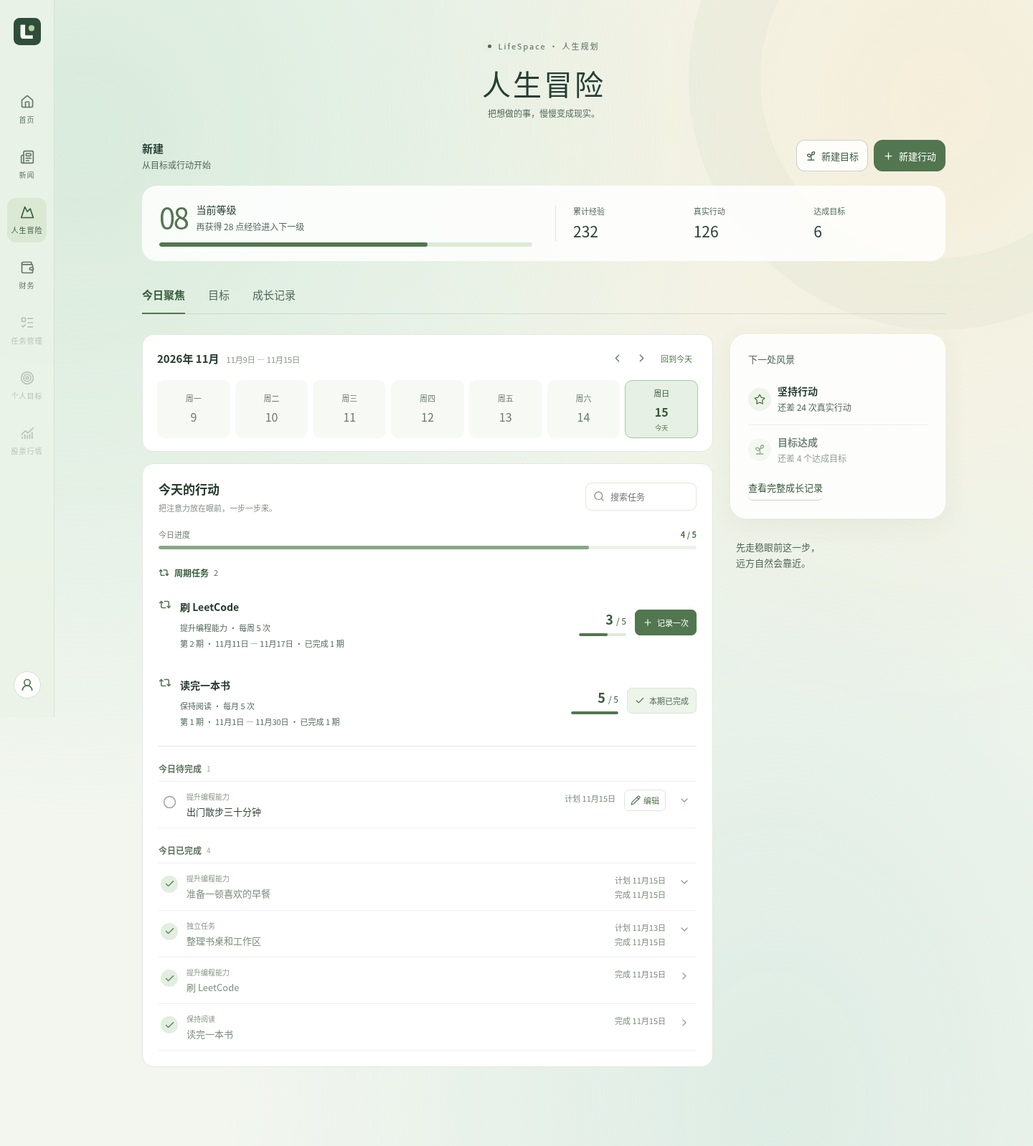
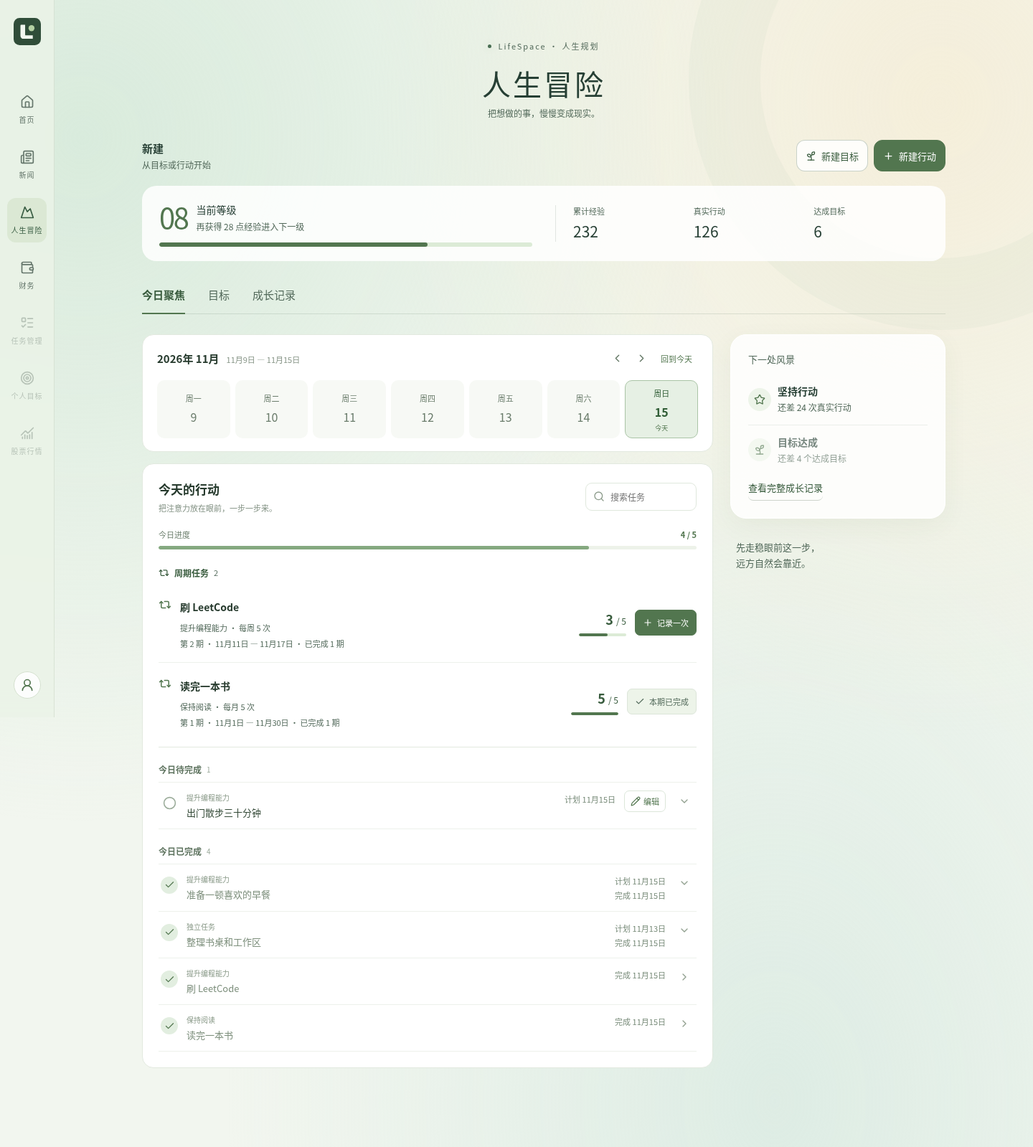
fix(adventure): keep recurring pagination reachable after list shrink (#200)

diff --git a/tests/browser/adventure-recurring-review.spec.ts b/tests/browser/adventure-recurring-review.spec.ts
@@ -1,0 +1,92 @@
+import { test, expect } from './authenticated-test'
+import { workspace, parent, future, makeChild, uuid, recurringFixture } from './adventure-recurring-fixture'
+
+const elevenChildren = () => Array.from({ length: 11 }, (_, index) => makeChild(600 + index, parent, workspace.today, `10:${String(index).padStart(2, '0')}`, true))
+const withElevenActions = () => ({ ...workspace, tasks: [], totalTasks: 0, taskProgress: { completed: 11, total: 11, ratio: 1 }, todayTaskProgress: { completed: 11, total: 11, ratio: 1 } })
+const withElevenChildren = () => ({ ...parent, requiredCount: 20, effectiveChildren: 11, currentPeriod: { ...parent.currentPeriod!, completed: 11, required: 20, ratio: .55, satisfied: false } })
+
+test('第2页撤销第11项后保留行动上一页入口，不必切换日期', async ({ page, context }) => {
+  const children = elevenChildren(), current = withElevenChildren(), data = withElevenActions()
+  const fixture = await recurringFixture(context, { workspace: data, parents: [current], children })
+  await page.goto('/adventure'); await page.getByRole('button', { name: '下一页任务', exact: true }).click()
+  await expect(page.locator('.today-task-record')).toHaveCount(1)
+  fixture.saved({ workspace: { ...data, version: 21, taskProgress: { completed: 10, total: 10, ratio: 1 }, todayTaskProgress: { completed: 10, total: 10, ratio: 1 } },
+    parents: [{ ...current, effectiveChildren: 10, currentPeriod: { ...current.currentPeriod, completed: 10, ratio: .5 } }], children: children.slice(0, 10) })
+  await page.getByRole('button', { name: '取消完成', exact: true }).click()
+  await expect(page.getByRole('group', { name: '今日任务进度', exact: true })).toHaveText('今日进度10 / 10')
+  await expect(page.locator('.today-task-record')).toHaveCount(0)
+  await expect(page.getByRole('button', { name: '上一页任务', exact: true })).toBeEnabled()
+  await expect(page.getByRole('button', { name: '下一页任务', exact: true })).toBeDisabled()
+  await page.getByRole('button', { name: '上一页任务', exact: true }).click()
+  await expect(page.locator('.today-task-record')).toHaveCount(10)
+  await expect(page.getByRole('button', { name: `选择日期 ${workspace.today}`, exact: true })).toHaveAttribute('aria-pressed', 'true')
+  expect(fixture.envelopes).toHaveLength(1)
+})
+
+test('第2页删除第11个未开始父后保留父分页返回入口', async ({ page, context }) => {
+  const parents = Array.from({ length: 11 }, (_, index) => ({ ...future, id: uuid(700 + index), title: `未来周期${index}` }))
+  const fixture = await recurringFixture(context, { workspace, parents, children: [] })
+  await page.goto('/adventure')
+  for (let index = 0; index < 3; index++) await page.getByRole('button', { name: '下一周', exact: true }).click()
+  await page.getByRole('button', { name: '选择日期 2026-12-01', exact: true }).click()
+  await page.getByRole('button', { name: '下一页周期任务', exact: true }).click()
+  await expect(page.getByRole('button', { name: '未来周期10', exact: true })).toBeVisible()
+  await page.getByRole('button', { name: '删除', exact: true }).click()
+  fixture.saved({ workspace: { ...workspace, version: 21 }, parents: parents.slice(0, 10), children: [] })
+  await page.getByRole('dialog').getByRole('button', { name: '确认删除', exact: true }).click()
+  await expect(page.getByRole('dialog')).toHaveCount(0)
+  await expect(page.locator('.recurring-row')).toHaveCount(0)
+  await expect(page.getByRole('button', { name: '上一页周期任务', exact: true })).toBeEnabled()
+  await expect(page.getByRole('button', { name: '下一页周期任务', exact: true })).toBeDisabled()
+  await page.getByRole('button', { name: '上一页周期任务', exact: true }).click()
+  await expect(page.locator('.recurring-row')).toHaveCount(10)
+  await expect(page.getByRole('button', { name: '选择日期 2026-12-01', exact: true })).toHaveAttribute('aria-pressed', 'true')
+  expect(fixture.envelopes).toHaveLength(1)
+})
+
+test('关联子第2页在其他操作缩减总量后仍可返回第1页', async ({ page, context }) => {
+  const children = elevenChildren(), current = withElevenChildren()
+  const fixture = await recurringFixture(context, { workspace, parents: [current], children })
+  await page.goto('/adventure'); await page.getByRole('button', { name: parent.title, exact: true }).click()
+  await page.getByRole('dialog').getByRole('button', { name: '下一页子任务', exact: true }).click()
+  await expect(page.getByRole('dialog').getByRole('button', { name: /查看子任务/ })).toHaveCount(1)
+  fixture.saved({ workspace: { ...workspace, version: 21 }, parents: [{ ...current, effectiveChildren: 10, currentPeriod: { ...current.currentPeriod, completed: 10, ratio: .5 } }], children: children.slice(0, 10) })
+  fixture.fail(409, 'VERSION_CONFLICT')
+  await page.getByRole('dialog').getByRole('button', { name: '记录一次', exact: true }).click()
+  await expect(page.getByRole('dialog').getByText('10 项', { exact: true })).toBeVisible()
+  await expect(page.getByRole('dialog').getByRole('button', { name: /查看子任务/ })).toHaveCount(0)
+  await expect(page.getByRole('dialog').getByRole('button', { name: '上一页子任务', exact: true })).toBeEnabled()
+  await expect(page.getByRole('dialog').getByRole('button', { name: '下一页子任务', exact: true })).toBeDisabled()
+  await page.getByRole('dialog').getByRole('button', { name: '上一页子任务', exact: true }).click()
+  await expect(page.getByRole('dialog').getByRole('button', { name: /查看子任务/ })).toHaveCount(10)
+  expect(fixture.envelopes).toHaveLength(1)
+})
+
+for (const width of [1440, 390]) test(`${width}px 周期相邻行保留approved-v1分隔线`, async ({ page, context }) => {
+  await recurringFixture(context)
+  await page.setViewportSize({ width, height: width === 1440 ? 1000 : 844 })
+  await page.goto('/adventure')
+  const second = page.locator('.recurring-section .recurring-row').nth(1)
+  await expect(second).toHaveCSS('border-top-width', '1px')
+  await expect(second).toHaveCSS('border-top-style', 'solid')
+  await expect(second).toHaveCSS('border-top-color', 'rgb(237, 241, 235)')
+})
+
+test('目标候选第2页因总数缩减为空时仍可返回第1页', async ({ page, context }) => {
+  await recurringFixture(context)
+  let shrunk = false
+  const goals = Array.from({ length: 20 }, (_, index) => ({ ...workspace.goals[0], id: uuid(1800 + index), title: `候选目标${index}` }))
+  await context.route(/\/api\/adventure\?/, route => {
+    const requestedPage = Number(new URL(route.request().url()).searchParams.get('page') ?? 1)
+    if (requestedPage === 2) shrunk = true
+    return route.fulfill({ json: { ...workspace, page: requestedPage, goals: requestedPage === 2 ? [] : goals, totalGoals: shrunk ? 20 : 21 } })
+  })
+  await page.goto('/adventure'); await page.getByRole('button', { name: '新建行动', exact: true }).click()
+  const dialog = page.getByRole('dialog')
+  await dialog.getByRole('button', { name: '下一页目标', exact: true }).click()
+  await expect(dialog.getByText('目标候选 · 第 2 页', { exact: true })).toBeVisible()
+  await expect(dialog.getByRole('button', { name: '上一页目标', exact: true })).toBeEnabled()
+  await expect(dialog.getByRole('button', { name: '下一页目标', exact: true })).toBeDisabled()
+  await dialog.getByRole('button', { name: '上一页目标', exact: true }).click()
+  await expect(dialog.getByRole('combobox', { name: '任务归属', exact: true }).locator('option')).toHaveCount(21)
+})

diff --git a/src/adventure/PrototypeTasks.tsx b/src/adventure/PrototypeTasks.tsx
@@ -91,7 +91,7 @@ export function PrototypeTasks({ data, blocked, reload, openTask, toggleTask, ed
       {result && <>
         {isToday && <div className="today-progress"><div role="group" aria-label="今日任务进度"><span>今日进度</span><strong>{result.progress.completed} / {result.progress.total}</strong></div>{result.progress.ratio === null ? <small>暂无可统计任务</small> : <Progress value={result.progress.ratio} label="今日任务进度" />}</div>}
         {recurring.value && <RecurringTasks list={recurring.value.parents} blocked={rowBlocked} open={openRecurring} record={recordRecurring} changePage={setParentPage} />}
-        {filtered.length === 0 ? recurring.value?.parents.parents.length ? null : <p className="today-empty">{term ? '没有找到匹配的行动。' : date < data.today ? '这一天没有完成记录。' : '这一天没有待完成的任务。'}</p> : groups.filter(group => group.tasks.length).map(group => <section className="today-task-group" key={group.title}><h3>{group.title}<span>{recurringEnabled && (recurring.value?.actions.total ?? 0) > 10 ? `本页 ${group.total}` : group.total}</span></h3><div className="today-task-list">{group.tasks.map(task => {
+        {filtered.length === 0 ? recurring.value?.parents.parents.length ? null : <p className="today-empty">{activePage > 1 ? '本页暂无任务，请返回上一页。' : term ? '没有找到匹配的行动。' : date < data.today ? '这一天没有完成记录。' : '这一天没有待完成的任务。'}</p> : groups.filter(group => group.tasks.length).map(group => <section className="today-task-group" key={group.title}><h3>{group.title}<span>{recurringEnabled && (recurring.value?.actions.total ?? 0) > 10 ? `本页 ${group.total}` : group.total}</span></h3><div className="today-task-list">{group.tasks.map(task => {
           if (task.kind === 'recurring_child') {
             const child = task
             const snapshot = child.snapshot
@@ -119,7 +119,7 @@ export function PrototypeTasks({ data, blocked, reload, openTask, toggleTask, ed
             {open && <div className="today-task-details" id={detailsId}><p>{task.description || '这次行动没有填写说明。'}</p></div>}
           </article>
         })}</div></section>)}
-        {(recurringEnabled ? (recurring.value?.actions.total ?? 0) > 10 : filtered.length > 20) && <footer className="planning-pagination"><small>共 {recurringEnabled ? recurring.value?.actions.total : filtered.length} 项 · 第 {activePage} 页</small><div><button disabled={activePage <= 1} onClick={() => { preserveSpace(); setPage(activePage - 1) }}>上一页任务</button><button disabled={activePage >= pageCount} onClick={() => { preserveSpace(); setPage(activePage + 1) }}>下一页任务</button></div></footer>}
+        {(recurringEnabled ? (recurring.value?.actions.total ?? 0) > 10 || activePage > 1 : filtered.length > 20) && <footer className="planning-pagination"><small>共 {recurringEnabled ? recurring.value?.actions.total : filtered.length} 项 · 第 {activePage} 页</small><div><button disabled={activePage <= 1} onClick={() => { preserveSpace(); setPage(activePage - 1) }}>上一页任务</button><button disabled={activePage >= pageCount} onClick={() => { preserveSpace(); setPage(activePage + 1) }}>下一页任务</button></div></footer>}
       </>}
     </div>
   </section>

diff --git a/tests/browser/adventure-recurring-fixture.ts b/tests/browser/adventure-recurring-fixture.ts
@@ -63,9 +63,12 @@ export async function recurringFixture(context: BrowserContext, supplied = initi
       return route.fulfill({ json: { ...basis, ...body, pageSize: 10, total: parents.length, parents: parents.slice((body.page - 1) * 10, body.page * 10) } })
     }
     if (path === '/api/adventure/date-tasks/list') {
-      const tasks = [...state.workspace.tasks.filter(task => task.status === 'completed' ? task.completedOn === body.date : task.plannedOn === body.date).map(task => ({ ...task, kind: 'once' })), ...state.children.filter(child => child.status === 'completed' && child.snapshot.occurredOn === body.date)]
+      const tasks = [...state.workspace.tasks.filter(task => task.status === 'completed' ? task.completedOn === body.date
+        : task.status === 'pending' && body.date >= state.workspace.today && (body.date === state.workspace.today ? task.plannedOn <= body.date : task.plannedOn === body.date)).map(task => ({ ...task, kind: 'once' })), ...state.children.filter(child => child.status === 'completed' && child.snapshot.occurredOn === body.date)]
         .filter(task => `${'snapshot' in task ? `${task.snapshot.title} ${task.snapshot.description} ${task.snapshot.goalTitle}` : `${task.title} ${task.description} ${task.goalTitle}`}`.includes(body.search))
-      return route.fulfill({ json: { ...basis, ...body, pageSize: 10, total: tasks.length, tasks: tasks.slice((body.page - 1) * 10, body.page * 10), progress: state.workspace.todayTaskProgress } })
+      const completed = tasks.filter(task => task.status === 'completed').length
+      const progress = body.date === state.workspace.today && !body.search ? state.workspace.todayTaskProgress : { completed, total: tasks.length, ratio: tasks.length ? completed / tasks.length : null }
+      return route.fulfill({ json: { ...basis, ...body, pageSize: 10, total: tasks.length, tasks: tasks.slice((body.page - 1) * 10, body.page * 10), progress } })
     }
     if (path === '/api/adventure/preview') return route.fulfill({ json: { version: state.workspace.version, today: state.workspace.today, allowed: true, message: '请确认', operation: body.command.type, entityId: body.command.id, title: state.parents.find(parent => parent.id === body.command.id)?.title, requiresConfirmation: true, effectiveChildren: 3, completedPeriods: 1 } })
     if (path === '/api/adventure/commands') {

diff --git a/src/adventure/RecurringDialog.tsx b/src/adventure/RecurringDialog.tsx
@@ -115,7 +115,7 @@ function RecurringDetail({ view, workspace, blocked, action, confirmation, chang
       {children.total === 0 ? <p className="recurring-hint">暂无关联子任务</p> : <ul role="list">{children.children.map(child => <li key={child.id}><button type="button" className="recurring-child-link" disabled={blocked} onClick={() => change({ type: 'child', id: child.id, parentId: parent.id })} aria-label={`查看子任务 ${child.snapshot.title}，${recurringDate(child.snapshot.occurredOn)} ${recurringTime(child.snapshot.occurredAt)}，第 ${child.snapshot.periodNumber} 期`}>
         <ListTodo size={16} aria-hidden="true"/><span className="recurring-child-copy"><strong>{child.snapshot.title}</strong><small>{recurringDate(child.snapshot.occurredOn)} {recurringTime(child.snapshot.occurredAt)} · 第 {child.snapshot.periodNumber} 期</small></span><span className="recurring-child-status">已完成</span><ChevronRight size={16} aria-hidden="true"/>
       </button></li>)}</ul>}
-      {children.total > children.pageSize && <footer className="planning-pagination"><small>第 {children.page} 页</small><div><button type="button" disabled={blocked || page <= 1} onClick={() => setPage(value => value - 1)}>上一页子任务</button><button type="button" disabled={blocked || page * children.pageSize >= children.total} onClick={() => setPage(value => value + 1)}>下一页子任务</button></div></footer>}
+      {(children.total > children.pageSize || children.page > 1) && <footer className="planning-pagination"><small>第 {children.page} 页</small><div><button type="button" disabled={blocked || page <= 1} onClick={() => setPage(value => value - 1)}>上一页子任务</button><button type="button" disabled={blocked || page * children.pageSize >= children.total} onClick={() => setPage(value => value + 1)}>下一页子任务</button></div></footer>}
     </section>
   </div>
 }

diff --git a/src/adventure/RecurringTaskForm.tsx b/src/adventure/RecurringTaskForm.tsx
@@ -63,7 +63,7 @@ export function RecurringTaskForm({ parent, workspace, blocked, action, close }:
     </select></label>
     {!candidates && <p role="status">{candidateError || '正在读取任务归属…'}</p>}
     {candidateError && <button type="button" onClick={() => setAttempt(value => value + 1)}>重试任务归属</button>}
-    {candidates && candidates.totalGoals > candidates.pageSize && <div className="planning-pagination"><small>目标候选 · 第 {candidates.page} 页</small><div><button type="button" disabled={candidates.page <= 1} onClick={() => setCandidatePage(value => value - 1)}>上一页目标</button><button type="button" disabled={candidates.page * candidates.pageSize >= candidates.totalGoals} onClick={() => setCandidatePage(value => value + 1)}>下一页目标</button></div></div>}
+    {candidates && (candidates.totalGoals > candidates.pageSize || candidates.page > 1) && <div className="planning-pagination"><small>目标候选 · 第 {candidates.page} 页</small><div><button type="button" disabled={candidates.page <= 1} onClick={() => setCandidatePage(value => value - 1)}>上一页目标</button><button type="button" disabled={candidates.page * candidates.pageSize >= candidates.totalGoals} onClick={() => setCandidatePage(value => value + 1)}>下一页目标</button></div></div>}
     {draftError && <p role="alert">{draftError}</p>}
     <div className="adventure-form-footer"><button type="button" onClick={close}>取消</button><button type="submit" className="adventure-primary" disabled={blocked || !candidates}>{blocked ? '正在保存…' : parent ? '保存任务' : '创建任务'}</button></div>
   </fieldset></form>

diff --git a/src/adventure/recurring.css b/src/adventure/recurring.css
@@ -9,7 +9,7 @@
 .recurring-ui .recurring-cycle-heading h3 span { font-size: 11px; color: #52695a; font-weight: 400; }
 .recurring-ui .recurring-cycle-heading > small { color: #52695a; font-size: 11px; }
 .recurring-ui .recurring-row { display: grid; grid-template-columns: 18px minmax(0, 1fr) 66px auto; gap: 12px; align-items: center; padding: 17px 0; }
-.recurring-ui .recurring-row + .recurring-ui .recurring-row { border-top: 1px solid #edf1eb; }
+.recurring-ui .recurring-row + .recurring-row { border-top: 1px solid #edf1eb; }
 .recurring-ui .recurring-row > svg { color: #52764f; align-self: start; margin-top: 3px; }
 .recurring-ui .recurring-copy { display: grid; gap: 6px; min-width: 0; }
 .recurring-ui .recurring-copy > button { border: 0; padding: 0; justify-content: flex-start; text-align: left; background: transparent; font-size: 14px; font-weight: 600; overflow-wrap: anywhere; }
@@ -78,7 +78,7 @@
 @media (max-width: 1000px) {
   .recurring-ui .recurring-row { grid-template-columns: 18px minmax(0, 1fr) auto; }
   .recurring-ui .recurring-progress { grid-column: 2; display: flex; align-items: center; gap: 10px; text-align: left; }
-  .adventure-page.prototype-page .recurring-ui .recurring-progress .adventure-proto-progress { width: 80px; flex: 1; min-width: 0; margin: 0; }
+  .adventure-page.prototype-page.recurring-ui .recurring-progress .adventure-proto-progress { width: 80px; flex: 1; min-width: 0; margin: 0; }
   .recurring-ui .recurring-row > button { grid-column: 3; grid-row: 1 / 3; }
 }
 @media (max-width: 720px) {

diff --git a/src/adventure/RecurringTasks.tsx b/src/adventure/RecurringTasks.tsx
@@ -31,7 +31,7 @@ export function RecurringTasks({ list, blocked, open, record, changePage }: {
             <button type="button" className="recurring-danger" disabled={blocked || !parent.capabilities.deleteRecurringTask.allowed} title={parent.capabilities.deleteRecurringTask.reason} onClick={() => open({ type: 'delete', id: parent.id })}>删除</button></>}</div>}
       </article>)}
     </section>
-  })}{list.total > list.pageSize && <footer className="planning-pagination"><small>周期任务共 {list.total} 项 · 第 {list.page} 页</small><div>
+  })}{(list.total > list.pageSize || list.page > 1) && <footer className="planning-pagination"><small>周期任务共 {list.total} 项 · 第 {list.page} 页</small><div>
     <button type="button" disabled={blocked || list.page <= 1} onClick={() => changePage(list.page - 1)}>上一页周期任务</button>
     <button type="button" disabled={blocked || list.page * list.pageSize >= list.total} onClick={() => changePage(list.page + 1)}>下一页周期任务</button>
   </div></footer>}</>

diff --git a/docs/evidence/200-recurring-frontend/README.md b/docs/evidence/200-recurring-frontend/README.md
@@ -37,7 +37,7 @@
 
 人工 Agent 对照核查布局层级、560px弹窗／手机边距、24px／18px内容留白、父规则与期数、次数和进度条、按钮、关联往返及只读字段。页头、导航、新建区、经验概览、周历、一次性任务行、右侧成长区域没有重设计。`perimeter-comparison.json` 保存桌面外围像素比较：周历平均通道差约0.0013／255，其他所选区域不超过0.5／255；细微背景差来自整页高度变化，不能视为逐像素完全一致。
 
-需要协调者核对的契约／演示差异：
+独立需求评审已确认以下5项声明差异本身有冻结依据；这些差异不能用于解释或豁免后述独立发现：
 
 1. 原型将子任务借用一次性行，展示了“计划”日期；真实子契约没有 plannedOn，正式子行只显示实际完成日期，保留原任务行样式与详情入口。周期成长来源也不会显示“原安排 null”或调用一次性安排链。
 2. 原型空白底部的120px演示工具留白／演示工具栏不进入产品；因此长页总高度有差异。目标新建及一次性关系卡使用真实能力，不继承演示禁用。
@@ -53,10 +53,25 @@
 
 初次浏览器检查暴露了新弹窗受正式页CSS影响、测试preview缺字段和初始焦点的问题，已修复。一次64项混跑外层退出143，另一次并行批次共用了测试产物目录产生ENOENT；都不计通过，后续改用独立输出目录和短批次。未为迎合结果更改现有测试预期。
 
-本地常驻预览为 http://127.0.0.1:5228/adventure ，Orca terminal `term_71e27d9d-787c-4e40-971a-92c8bc73b39c`；仅验证HTTP200及本工作区归属，没有真实账户的周期后端联通数据。浏览器fixture验证、Agent视觉自验、独立评审、用户验收和真实DB／生产验收分别报告；独立评审、用户验收和真实DB／生产验收目前未完成，不作已完成声明。最终集成／必需CI由 #201 组织。
+本地常驻预览为 http://127.0.0.1:5228/adventure ，Orca terminal `term_71e27d9d-787c-4e40-971a-92c8bc73b39c`；仅验证HTTP200及本工作区归属，没有真实账户的周期后端联通数据。浏览器fixture验证、Agent视觉自验、独立评审、用户验收和真实DB／生产验收分别报告；初轮独立评审已完成但有阻塞，修复后的增量复审待协调者返回；用户验收及真实DB／生产验收未完成，不作已完成声明。最终集成／必需CI由 #201 组织。
 
 ## 使用的检查指南
 
 Modern Web Guidance `dialog`：采用原生showModal及安全取消焦点，遵循“DON'T add role=\"dialog\", aria-modal, a focus trap”，并添加dialog/backdrop滚动阻断；不改变现有一次性弹窗。
 
 Modern Web Guidance `accessibility`：表单有可访问名称，原生按钮、可见焦点、只读锁与关联入口，toast在dialog同层，遵循“Don't add live-region updates to inert DOM”。React检查采用独立读取并行、完整读取key、取消迟到响应及ref保存挂载状态；Impeccable只检查批准视觉和既有范围，detect返回空发现。
+
+
+## c38de78 独立评审与修复
+
+协调者通过 `msg_c9529b9d7adb` 返回固定 `503eac4` → `c38de78f15d568e953c2a414e73045c96257e37f` 的独立评审：Standards 硬性0／Fowler0；Spec 两项P2及一项视觉P3，初轮未通过。独立类型及新增浏览器12项通过，并不能替代这三项问题闭环；旧跨天截图包含错误历史待办，现已替换，不再作为正例。
+
+- P2分页：行动第2页撤销第11项／父第2页删除第11项后，total降至10而页码仍为2，原分页栏随总量隐藏。现在行动、父、子关联及目标候选四个独立分页流在page>1时保留上一页入口，下一页按服务端total禁用；返回后展示真实第1页。不改服务端越界页返回空的契约，不把本页数量冒充全量。
+- P2证据：fixture原来按plannedOn匹配未完成任务，错误地将过去待办留在历史完成分组。现在只在实际完成日展示已完成一次性任务；待办仅在今天（含逾期）或未来计划日展示。过去／未来／搜索的进度按完整fixture过滤集合投影，页面今日全量仍由显式服务端fixture快照提供。
+- P3视觉：修正相邻行选择器中重复的 `.recurring-ui`，恢复桌面／手机1px、`#edf1eb`分隔线；同时修正同元素作用域下的手机进度条选择器，使原型既定规则实际匹配。
+
+新增 `adventure-recurring-review.spec.ts` 的6项回归覆盖：11→10后的行动、父、子、目标候选返回，以及1440／390视口分隔线的实际渲染样式。原跨天用例加强到历史日期恰好4条完成、0条待办、0个运行中父，撤销禁用；主动刷新保留历史选择、不补交，回到今天后为新today及权威0/1。
+
+本轮浏览器18项均取得退出0：新增评审回归5＋1项，原周期／成长12项拆为6＋6项；中间一次12项长批次外层143及短暂残留端口占用不算通过，已由对应短批次补齐，残留服务自行退出，未停止其他任务进程。类型／正式构建退出0；本轮密钥扫描覆盖211个可达提交及当前范围，均无泄漏。初轮的54项旧页面／恢复回归与46项API、portable安全4项／主安全7项另保留原轮证据，不冒充本轮重跑。
+
+全部26状态按同一视口重新捕获，`capture.json`、`SHA256SUMS`及外围像素摘要同步更新；Agent实际查看修复后的跨天、桌面／手机分隔线。新跨天图只含4条历史完成，不含散步待办。当前仍须由原两轴对本轮固定提交复审，不能自称独立通过；共同契约、共享版本、Worker、DB及外围设计均未改。
